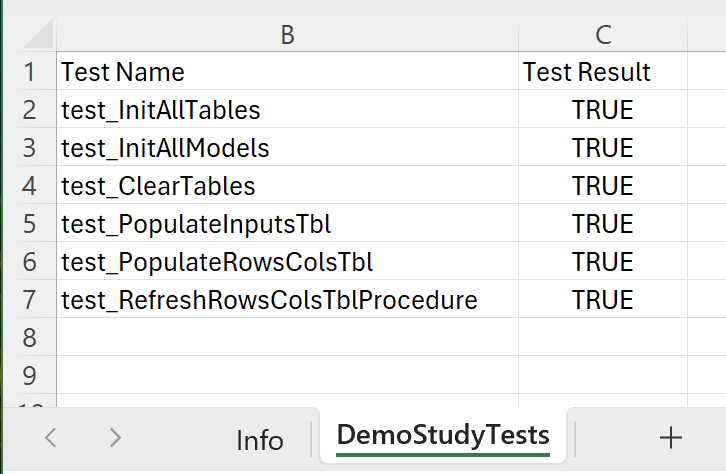
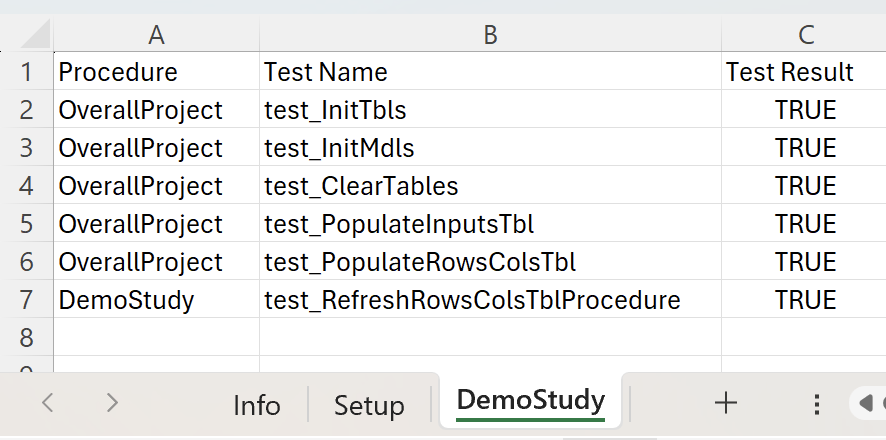
Update code example and image in Readme

diff --git a/Readme.md b/Readme.md
@@ -21,30 +21,54 @@ This repository is a demo and project starter. It is designed to interoperate wi
 
 ```vba
 '-----------------------------------------------------------------------------------------
-' Initialize all project tables
-' JDL 12/2/24 (based on client project 9/24)
-Public Function InitAllTables(tbls) As Boolean
-    SetErrs InitAllTables: If errs.IsHandle Then On Error GoTo ErrorExit
-    Dim wkbk As Workbook, defn As String
-    Set wkbk = ThisWorkbook
-
-    Set tbls = New Tables: If Not tbls.Init(tbls) Then GoTo ErrorExit
+' Initialize all or some project tables
+' JDL 4/28/26
+Public Function InitTbls(tbls, Optional IsAll As Boolean = True, _
+    Optional ByVal IsInputs As Boolean = False, _
+    Optional ByVal IsRowsCols As Boolean = False, _
+    Optional IsRefresh = False) As Boolean
+    
+    SetErrs InitTbls, ThisWorkbook: If errs.IsHandle Then On Error GoTo ErrorExit
+    Dim wkbk As Workbook: Set wkbk = ThisWorkbook
+    Dim defn As String, sht As String
+    
+    ' Initialize tbls if not already instanced (allows multiple calls)
+    If tbls Is Nothing Then
+        Set tbls = New Tables: If Not tbls.Init(tbls) Then GoTo ErrorExit
+    End If
+    
+    If IsAll Then
+        IsInputs = True
+        IsRowsCols = True
+    End If
 
     With tbls
-
         'Non-default tbls "sht:rHome,cHome:....:nrows:ncols" see .SetCustomTblParams(tbl)
-        defn = "Home:6,8:T:T:T:F:F:T:0:-1:4:3"
-        If Not .Inputs.Provision(.Inputs, wkbk, False, TblName:="Inputs", defn:=defn) _
-            Then GoTo ErrorExit
-    
-        'Default tables (homed, single object on sheet)
-        If Not .RowsCols.Provision(.RowsCols, wkbk, False, sht:="RowsCols", _
-            IsSetColRngs:=True, IsSetColNames:=True) Then GoTo ErrorExit
+        If IsInputs Then
+            defn = "Home:6,8:T:T:T:F:F:T:0:-1:4:3"
+            If Not .Inputs.Provision(.Inputs, wkbk, False, TblName:="Inputs", defn:=defn) _
+                Then GoTo ErrorExit
+                
+            'No refresh for custom, non-homed table
+        End If
+            
+        'Default table (homed, single object on sheet)
+        If IsRowsCols Then
+            sht = "RowsCols"
+            If Not .RowsCols.Provision(.RowsCols, wkbk, False, sht:=sht, _
+                IsSetColRngs:=True, IsSetColNames:=True) Then GoTo ErrorExit
+              
+            'Optional refresh default, homed table
+            If IsRefresh Then
+                If Not RefreshTblAPI(wkbk, IsReplace:=True, IsTblFormat:=True, sht:=sht) _
+                    Then GoTo ErrorExit
+            End If
+        End If
     End With
     Exit Function
-
+    
 ErrorExit:
-    errs.RecordErr "InitAllTables", InitAllTables
+    errs.RecordErr "InitTbls", InitTbls
 End Function
 ```
 </div>
